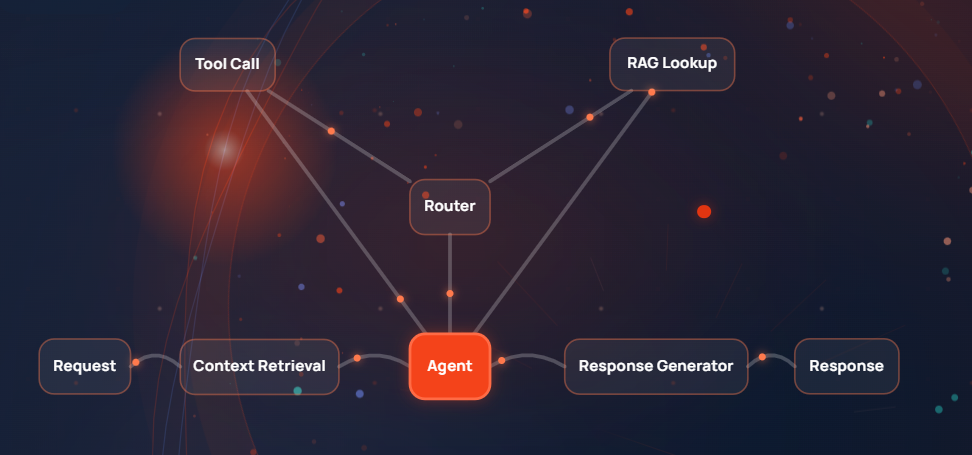
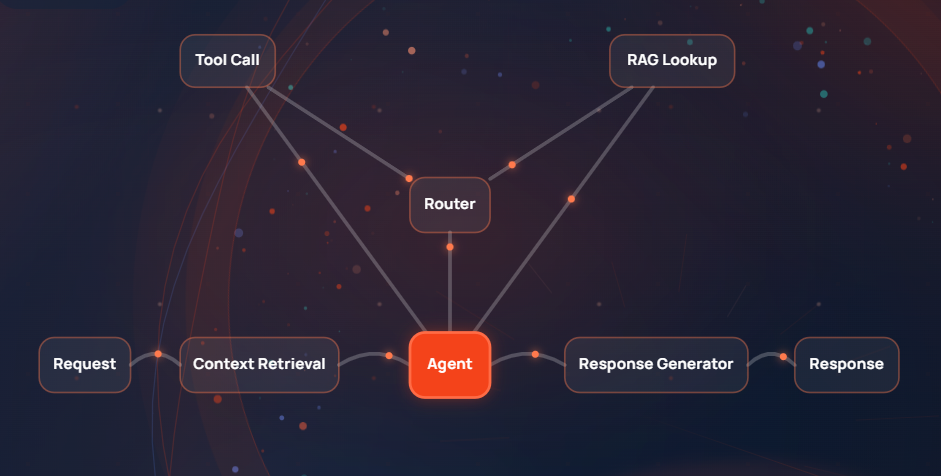
Update home system graph assets and index configuration
Replit-Commit-Author: Agent

diff --git a/index.html b/index.html
@@ -166,7 +166,7 @@
 </div>
 <div class="hc-right">
 <div class="hc-panel" id="hc-panel">
-<img class="hc-static-graph" src="assets/home-system-graph.svg?v=3" alt="Connected intelligent systems graph"/>
+<img class="hc-static-graph" src="assets/home-system-graph.svg?v=4" alt="Connected intelligent systems graph"/>
 </div>
 <div class="hc-node-detail" id="hc-node-detail" aria-live="polite">
 <div class="hc-node-detail-top"><div><span class="hc-node-detail-kicker" id="hc-node-kicker">INTELLIGENT CORE</span><strong id="hc-node-title">Agent</strong></div><span class="hc-node-detail-status" id="hc-node-status">Selected · Agent</span></div>
